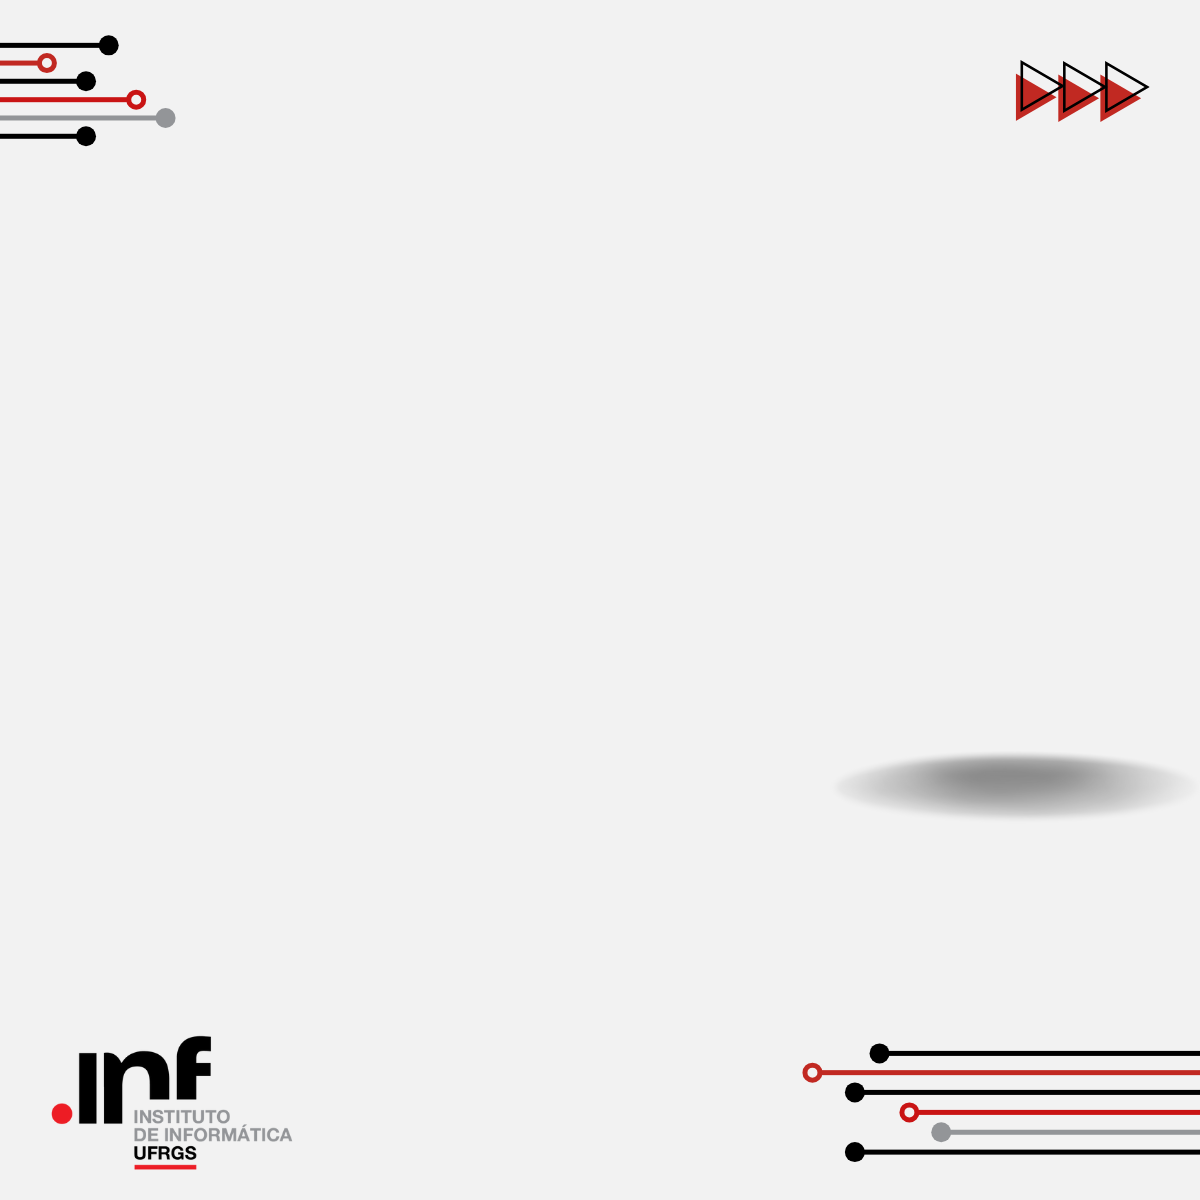
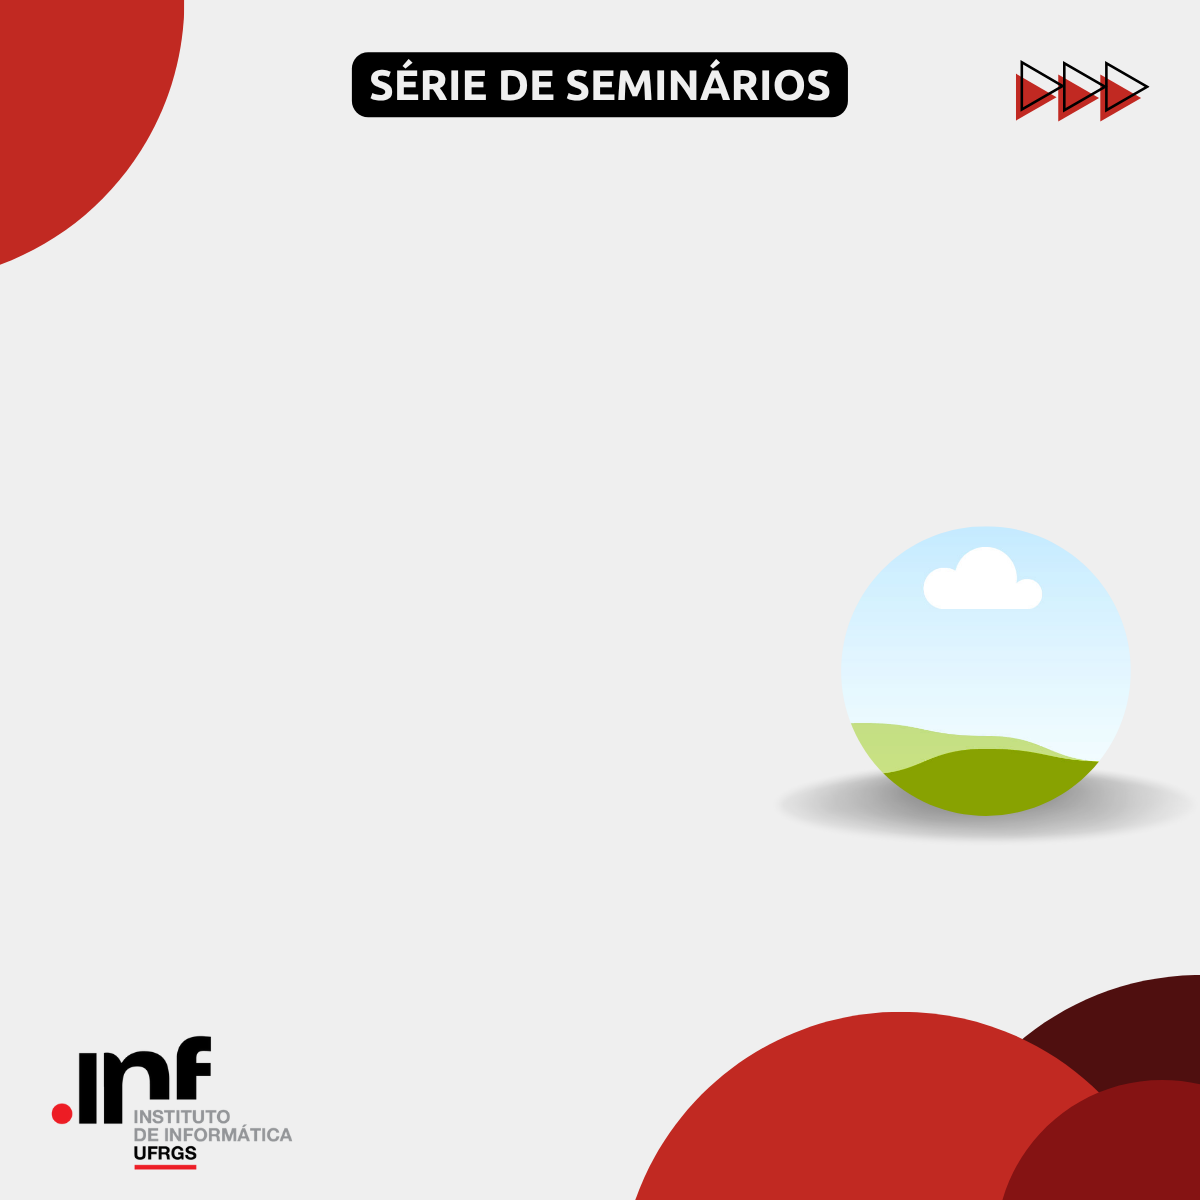
changes in background

diff --git a/Seminar_Art_Generator.py b/Seminar_Art_Generator.py
@@ -75,7 +75,7 @@ def generate_art(data, output_path=".", upload_path="."):
     margin_top = 60
 
     # Texto fixo superior
-    draw.text((225, margin_top), "Série de Seminários do INF", font=ImageFont.truetype(FONT_PATH_BOLD, 52), fill=TITLE_COLOR)
+#    draw.text((225, margin_top), "Série de Seminários do INF", font=ImageFont.truetype(FONT_PATH_BOLD, 52), fill=TITLE_COLOR)
 
     # Título principal com highlight e quebra de linha
     y_title = 300
@@ -133,10 +133,10 @@ def generate_art(data, output_path=".", upload_path="."):
     # Foto da palestrante com máscara circular
     photo_path = os.path.join(upload_path, data['photo'])
     photo = Image.open(photo_path).convert("RGBA")
-    circle_photo = circular_mask(photo, (300, 300))
+    circle_photo = circular_mask(photo, (325, 325))
     shadow_posx=820
     shadow_posy=750
-    background.paste(circle_photo, (860, 500), circle_photo)
+    background.paste(circle_photo, (830, 492), circle_photo)
 
     background.convert("RGB").save(os.path.join(output_path, "seminar_art.png"))
 
